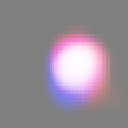
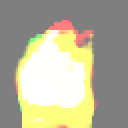
it almost worked

diff --git a/src/train.py b/src/train.py
@@ -27,12 +27,14 @@ torch.manual_seed(seed)
 device  ='cuda'
 model = CVAE()
 # LOAD STATE DICT IF NEEDED
-model.load_state_dict(torch.load('weights/model_weights_epoch_0.pth'))
+model.load_state_dict(torch.load('weights/model_weights_epoch_50.pth'))
+#model.load_state_dict(torch.load('weights/model_weights_epoch_55_it_begins_to_work.pth'))
 num_epochs = 300
 #beta = 1
 beta = 1
 #lr = 0.000001
-lr = 0.001
+#lr = 0.001 # THIS WAS ALMOST WORKING
+lr = 0.00003
 batch_size = 32
 
 dataset = ShapeDataset('dataset_one', 'dataset_one.json')
@@ -75,9 +77,9 @@ for epoch in range(num_epochs):
 
     print(f"TRAIN Epoch {epoch+1}/{num_epochs}, Loss: {epoch_loss.item()/(len(dataset)*batch_size)}, Recon Loss: {epoch_recon_loss.item()/(len(dataset)*batch_size)}, KL Loss: {epoch_kl_loss.item()/(len(dataset)*batch_size)}")
     
-    if epoch % 5 == 0:
-        torch.save(model.state_dict(), f'weights/model_weights_epoch_{epoch}.pth')
-    #torch.save(model.state_dict(), f'weights/model_weights_epoch_{epoch}.pth')
+    # if epoch % 5 == 0:
+    #     torch.save(model.state_dict(), f'weights/model_weights_epoch_{epoch}.pth')
+    torch.save(model.state_dict(), f'weights/model_weights_epoch_{epoch}.pth')
 
     epoch_loss = 0
     epoch_recon_loss = 0

diff --git a/src/inference.py b/src/inference.py
@@ -14,7 +14,7 @@ torch.manual_seed(seed)
 #padded_conditioning_vectors = [0, 1, -1, -1, -1, -1, -1, -1, -1, -1, -1, -1]
 
 
-padded_conditioning_vectors = [[0, 0]]
+#padded_conditioning_vectors = [[0, 0]]
 #padded_conditioning_vectors = [[0, 1]]
 #padded_conditioning_vectors = [[0, 2]]
 #padded_conditioning_vectors = [[0, 3]]
@@ -28,7 +28,7 @@ padded_conditioning_vectors = [[0, 0]]
 device = 'cuda'
 
 model = CVAE().to(device)
-model.load_state_dict(torch.load('weights/model_weights_epoch_0.pth'))
+model.load_state_dict(torch.load('weights/model_weights_epoch_55.pth'))
 model.eval()
 
 
